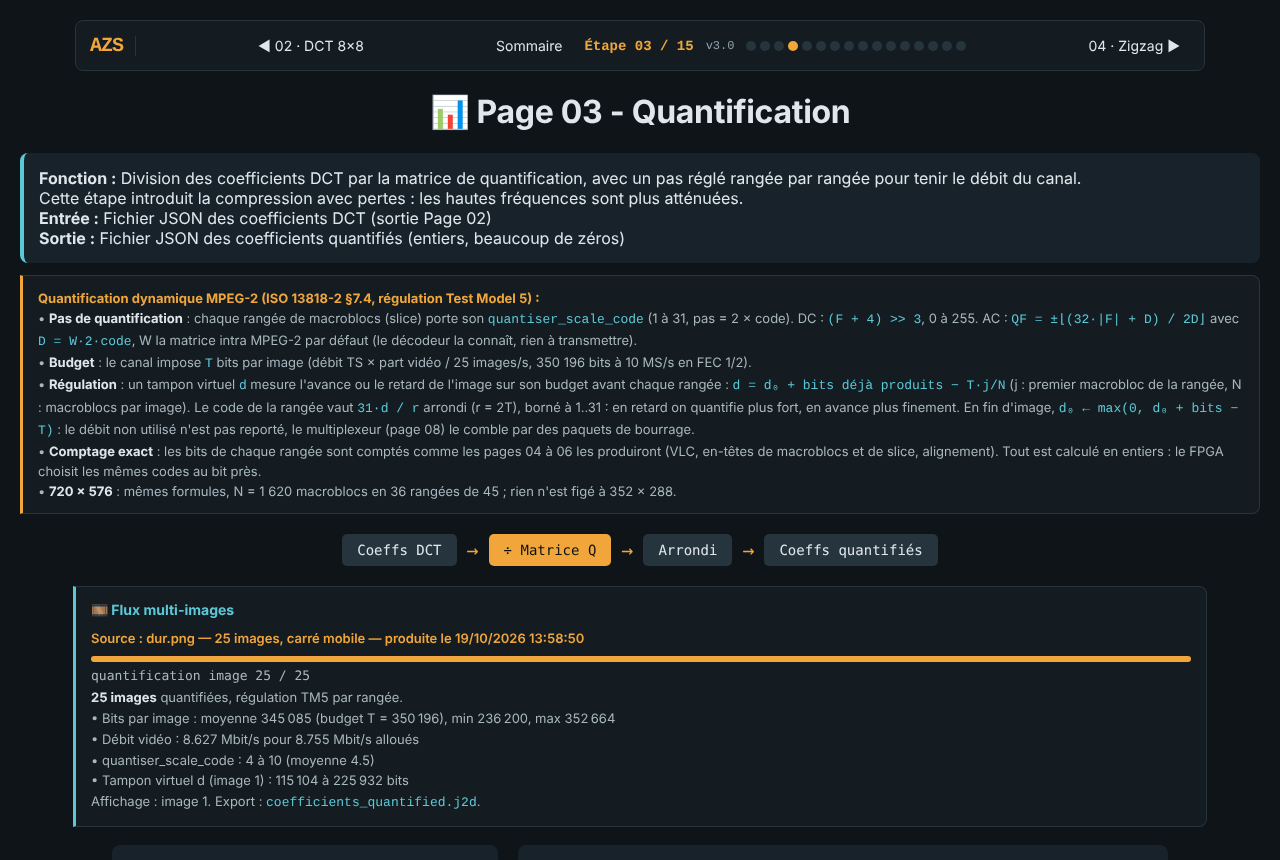
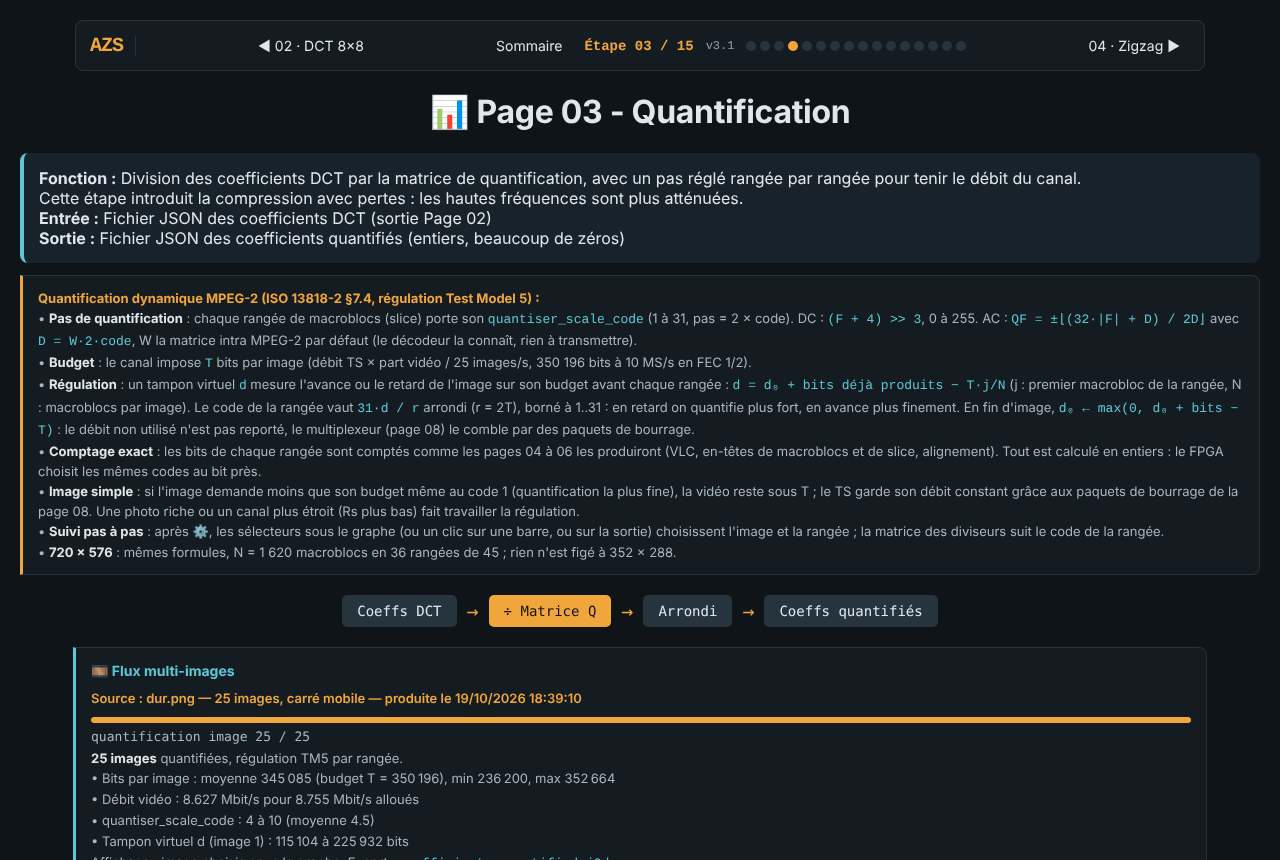
Étape 03 (3.1) : suivi pas à pas de la régulation TM5
Change :
- sélecteurs image (◀ n / N ▶) et rangée (◀ s / 18 ▶), clic sur une barre du graphe ou sur la sortie ;
- graphe de chaque image : codes par rangée, tampon virtuel d, bits cumulés des slices et budget cumulé ⌊T·s/rangées⌋ (pointillé) ;
- rangée suivie surlignée sur le graphe et sur la sortie, détail de la rangée (B, cible, d, code, bits) ;
- matrice des diviseurs au code de la rangée choisie ; entrée, sortie et taux de zéros de l'image choisie ;
- note « image simple » (code 1, bourrage du multiplexeur) dans l'encadré et dans le bilan ;
- clic sur la sortie : coordonnées recalées sur la taille affichée.

Conservé : calculs, codes et exports ; .j2d identique octet pour octet (date exceptée), TS de la mire identique à fpga_test/mire_ts.bin.
README / LISEZMOI : ligne d'historique ; capture refaite (dur.png, 25 images, 1280 × 860).

diff --git a/page03-quantification.html b/page03-quantification.html
@@ -6,7 +6,7 @@
   Objet      : Page 03 - Quantification
   Auteur     : Eric PERRET
   Date       : 2026-01-17
-  Version    : 3.0
+  Version    : 3.1
   Plateforme : HTML / CSS / JavaScript, page autonome, aucune librairie
   Licence    : CC BY-NC 4.0
   Historique : 1.1  2026-10-18  barre de navigation précédente / sommaire /
@@ -28,6 +28,11 @@
                      canal affiché sur la page ; matrice intra par défaut, curseur
                      qualité et choix de matrice retirés ; dimensions non figées
                      (prêt pour 720 × 576)
+               3.1  2026-10-19  suivi pas à pas de la régulation : sélecteurs image et
+                     rangée, graphe de chaque image (codes, tampon d, bits cumulés
+                     et budget cumulé), rangée surlignée, matrice des diviseurs au
+                     code de la rangée choisie, note « image simple » ; calculs et
+                     exports inchangés
 ================================================================================
 -->
 <html lang="fr">
@@ -118,6 +123,12 @@
         input[type="file"] {
             display: none;
         }
+        .rc-nav { margin-top: 8px; font-family: ui-monospace,"SFMono-Regular",Menlo,Consolas,"Liberation Mono",monospace; font-size: 12px; color: #a9b7bf; }
+        .rc-nav .rc-sel { display: inline-block; margin: 0 6px; white-space: nowrap; }
+        .rc-nav button { padding: 3px 10px; margin: 2px; font-size: 13px; }
+        .rc-nav .rc-val { display: inline-block; min-width: 56px; color: #5cc8d6; }
+        .rc-nav .info { margin-top: 4px; font-family: inherit; color: #dfe7ec; }
+        canvas { max-width: 100%; height: auto; }
         .info {
             margin-top: 10px;
             font-size: 12px;
@@ -269,6 +280,8 @@
 • <b>Budget</b> : le canal impose <code>T</code> bits par image (débit TS × part vidéo / 25 images/s, 350 196 bits à 10 MS/s en FEC 1/2).<br>
 • <b>Régulation</b> : un tampon virtuel <code>d</code> mesure l'avance ou le retard de l'image sur son budget avant chaque rangée : <code>d = d₀ + bits déjà produits − T·j/N</code> (j : premier macrobloc de la rangée, N : macroblocs par image). Le code de la rangée vaut <code>31·d / r</code> arrondi (r = 2T), borné à 1..31 : en retard on quantifie plus fort, en avance plus finement. En fin d'image, <code>d₀ ← max(0, d₀ + bits − T)</code> : le débit non utilisé n'est pas reporté, le multiplexeur (page 08) le comble par des paquets de bourrage.<br>
 • <b>Comptage exact</b> : les bits de chaque rangée sont comptés comme les pages 04 à 06 les produiront (VLC, en-têtes de macroblocs et de slice, alignement). Tout est calculé en entiers : le FPGA choisit les mêmes codes au bit près.<br>
+• <b>Image simple</b> : si l'image demande moins que son budget même au code 1 (quantification la plus fine), la vidéo reste sous T ; le TS garde son débit constant grâce aux paquets de bourrage de la page 08. Une photo riche ou un canal plus étroit (Rs plus bas) fait travailler la régulation.<br>
+• <b>Suivi pas à pas</b> : après ⚙, les sélecteurs sous le graphe (ou un clic sur une barre, ou sur la sortie) choisissent l'image et la rangée ; la matrice des diviseurs suit le code de la rangée.<br>
 • <b>720 × 576</b> : mêmes formules, N = 1 620 macroblocs en 36 rangées de 45 ; rien n'est figé à 352 × 288.</div>
     
     <div class="pipeline">
@@ -299,6 +312,11 @@
         <div class="canvas-box">
             <h3>2. TRAITEMENT - Régulation de débit</h3>
             <canvas id="canvasProcess" width="352" height="288"></canvas>
+            <div class="rc-nav" id="rcNav" style="display:none">
+                <span class="rc-sel">Image <button id="rcImgM" onclick="rcVoir(rcVue.f - 1, rcVue.s)" title="image précédente">◀</button><span class="rc-val" id="rcImgN">1 / 1</span><button id="rcImgP" onclick="rcVoir(rcVue.f + 1, rcVue.s)" title="image suivante">▶</button></span>
+                <span class="rc-sel">Rangée <button id="rcRangM" onclick="rcVoir(rcVue.f, rcVue.s - 1)" title="rangée précédente">◀</button><span class="rc-val" id="rcRangN">1 / 18</span><button id="rcRangP" onclick="rcVoir(rcVue.f, rcVue.s + 1)" title="rangée suivante">▶</button></span>
+                <div class="info" id="rcRang"></div>
+            </div>
             <div class="controls">
 <button id="btnQuantize" onclick="quantize()" disabled>⚙ Quantifier</button>
             </div>
@@ -335,7 +353,7 @@
     
     <!-- Affichage de la matrice Q -->
     <div style="text-align: center; margin-top: 20px;">
-        <h3 style="color: #00d4ff;">Matrice de Quantification (8×8)</h3>
+        <h3 style="color: #00d4ff;">Matrice de Quantification (8×8)<span id="matRang" style="color:#f0a63a;font-weight:normal"></span></h3>
         <div id="matrixDisplay" class="matrix-display"></div>
         <div id="blockComparison" class="stats" style="display:none; max-width: 800px; margin: 20px auto;"></div>
     </div>
@@ -874,8 +892,8 @@ var CANAL = {
             if (!quantized) return;
             
             const rect = this.getBoundingClientRect();
-            const x = Math.floor(e.clientX - rect.left);
-            const y = Math.floor(e.clientY - rect.top);
+            const x = Math.floor((e.clientX - rect.left) * this.width / rect.width);
+            const y = Math.floor((e.clientY - rect.top) * this.height / rect.height);
             
             const blockX = Math.floor(x / 8);
             const blockY = Math.floor(y / 8);
@@ -887,10 +905,11 @@ var CANAL = {
             const blockIndex = localBlockY * 2 + localBlockX;
             
             if (mbIndex < quantizedMacroblocs.length) {
+                if (rcTraces) { rcVoir(rcVue.f, mbY); }
                 displayBlockComparison(mbIndex, blockIndex);
                 
                 // Highlight
-                displayQuantizedOutput();
+                if (rcTraces) { rcSortie(); } else { displayQuantizedOutput(); }
                 const ctx = this.getContext('2d');
                 ctx.strokeStyle = '#ff0';
                 ctx.lineWidth = 2;
@@ -1097,7 +1116,8 @@ var CANAL = {
         })();
 
         let multi = null;                 // {meta, t} du fichier .j2d chargé (flux)
-        let rcQ = null, rcCodes = null, rcBitsImg = null, rcInfo = null, rcTrace = null;
+        let rcQ = null, rcCodes = null, rcBitsImg = null, rcInfo = null, rcTraces = null;
+        let rcVue = { f: 0, s: 0, init: false };   // image et rangée suivies
         let rcCols = MB_COLS, rcRows = MB_ROWS;
         let codeAffiche = 10;             // code montré par la matrice des diviseurs
 
@@ -1183,43 +1203,130 @@ var CANAL = {
         }
         function majInfoQS() {
             const el = document.getElementById('qsInfo');
-            if (el) { el.textContent = 'Matrice ci-dessous : diviseurs pour quantiser_scale_code = ' + codeAffiche + ' (quantiser_scale = ' + (2 * codeAffiche) + ')'; }
+            if (el) { el.textContent = 'Matrice ci-dessous : diviseurs pour quantiser_scale_code = ' + codeAffiche + ' (quantiser_scale = ' + (2 * codeAffiche) + ')' + (rcTraces ? ', rangée ' + (rcVue.s + 1) + ' de l\'image ' + (rcVue.f + 1) : ''); }
         }
         function updateMatrix() { currentMatrix = MATRICES.mpeg2_intra; displayMatrixVisualization(); displayMatrixOnCanvas(); }
 
-        /* rcCourbe — rangées de l'image 1 : barres = quantiser_scale_code, trait =
-           tampon virtuel d, pointillé = budget de la rangée */
-        function rcCourbe(trace, P) {
-            const ctx = document.getElementById('canvasProcess').getContext('2d');
+        /* rcCourbe — E : image f (rcTraces, rcInfo, rcVue) → T : panneau haut :
+           barres = quantiser_scale_code de chaque rangée, trait = tampon virtuel d ;
+           panneau bas : bits cumulés B des slices et budget cumulé ⌊T·(s+1)/rangées⌋
+           → S : graphe, rangée suivie surlignée */
+        const RC_X0 = 34;
+        function rcCourbe(f) {
+            const P = rcInfo, trace = rcTraces[f], ctx = document.getElementById('canvasProcess').getContext('2d');
+            const n = trace.length, x0 = RC_X0, x1 = WIDTH - 10, w = (x1 - x0) / n, sel = rcVue.s;
+            const a0 = 28, a1 = 138, b0 = 156, b1 = 234;
+            ctx.setLineDash([]); ctx.lineWidth = 1;
             ctx.fillStyle = '#0e1418'; ctx.fillRect(0, 0, WIDTH, HEIGHT);
-            const n = trace.length, x0 = 34, x1 = WIDTH - 10, y0 = 30, y1 = HEIGHT - 50, w = (x1 - x0) / n;
-            ctx.font = 'bold 13px Arial'; ctx.fillStyle = '#5cc8d6'; ctx.textAlign = 'center';
-            ctx.fillText('Régulation TM5 — image 1, ' + n + ' rangées', WIDTH / 2, 18);
-            ctx.strokeStyle = '#26343e'; ctx.strokeRect(x0, y0, x1 - x0, y1 - y0);
+            ctx.font = 'bold 13px Arial'; ctx.fillStyle = '#5cc8d6'; ctx.textAlign = 'center'; ctx.textBaseline = 'alphabetic';
+            ctx.fillText('Régulation TM5 — image ' + (f + 1) + ' / ' + rcTraces.length + ', ' + n + ' rangées', WIDTH / 2, 18);
+            // rangée suivie : bande verticale sur les deux panneaux
+            ctx.fillStyle = 'rgba(240,166,58,0.12)';
+            ctx.fillRect(x0 + sel * w, a0, w, a1 - a0); ctx.fillRect(x0 + sel * w, b0, w, b1 - b0);
+            ctx.strokeStyle = '#26343e'; ctx.strokeRect(x0, a0, x1 - x0, a1 - a0); ctx.strokeRect(x0, b0, x1 - x0, b1 - b0);
             // codes (échelle 0..31)
-            for (let s = 0; s < n; s++) {
-                const h = (y1 - y0) * trace[s].code / 31;
-                ctx.fillStyle = 'rgba(240,166,58,0.75)';
-                ctx.fillRect(x0 + s * w + 1, y1 - h, Math.max(1, w - 2), h);
+            for (let k = 0; k < n; k++) {
+                const h = (a1 - a0) * trace[k].code / 31;
+                ctx.fillStyle = k === sel ? '#f0a63a' : 'rgba(240,166,58,0.5)';
+                ctx.fillRect(x0 + k * w + 1, a1 - h, Math.max(1, w - 2), h);
             }
             // tampon virtuel d (échelle 0..r)
             ctx.strokeStyle = '#5cc8d6'; ctx.lineWidth = 2; ctx.beginPath();
-            for (let s = 0; s < n; s++) {
-                const y = y1 - (y1 - y0) * Math.max(0, Math.min(1, trace[s].d / P.r));
-                const x = x0 + (s + 0.5) * w;
-                if (s) { ctx.lineTo(x, y); } else { ctx.moveTo(x, y); }
+            for (let k = 0; k < n; k++) {
+                const y = a1 - (a1 - a0) * Math.max(0, Math.min(1, trace[k].d / P.r)), x = x0 + (k + 0.5) * w;
+                if (k) { ctx.lineTo(x, y); } else { ctx.moveTo(x, y); }
             }
+            ctx.stroke();
+            // bits cumulés et budget cumulé
+            const cum = []; let B = 0, max = P.T;
+            for (let k = 0; k < n; k++) { B += trace[k].bits; cum.push(B); max = Math.max(max, B); }
+            const yb = v => b1 - (b1 - b0) * v / max;
+            ctx.setLineDash([4, 3]); ctx.strokeStyle = '#dfe7ec'; ctx.lineWidth = 1.5; ctx.beginPath(); ctx.moveTo(x0, b1);
+            for (let k = 0; k < n; k++) { ctx.lineTo(x0 + (k + 1) * w, yb(Math.floor(P.T * (k + 1) / n))); }
+            ctx.stroke(); ctx.setLineDash([]);
+            ctx.strokeStyle = '#3fb950'; ctx.lineWidth = 2; ctx.beginPath(); ctx.moveTo(x0, b1);
+            for (let k = 0; k < n; k++) { ctx.lineTo(x0 + (k + 1) * w, yb(cum[k])); }
             ctx.stroke(); ctx.lineWidth = 1;
+            // axes et légende
             ctx.font = '10px Arial'; ctx.textAlign = 'right'; ctx.fillStyle = '#8fa1ad';
-            ctx.fillText('31', x0 - 4, y0 + 8); ctx.fillText('0', x0 - 4, y1);
+            ctx.fillText('31', x0 - 4, a0 + 8); ctx.fillText('0', x0 - 4, a1);
+            ctx.fillText(Math.round(max / 1000) + 'k', x0 - 2, b0 + 8); ctx.fillText('0', x0 - 4, b1);
             ctx.textAlign = 'left';
-            ctx.fillStyle = '#f0a63a'; ctx.fillText('■ quantiser_scale_code par rangée', x0, y1 + 18);
-            ctx.fillStyle = '#5cc8d6'; ctx.fillText('— tampon virtuel d (0 à r = 2T)', x0, y1 + 32);
+            ctx.fillStyle = '#f0a63a'; ctx.fillText('■ code par rangée (0–31)', x0, 250);
+            ctx.fillStyle = '#5cc8d6'; ctx.fillText('— tampon d (0 à r = 2T)', x0 + 150, 250);
+            ctx.fillStyle = '#3fb950'; ctx.fillText('— bits cumulés B (slices)', x0, 264);
+            ctx.fillStyle = '#dfe7ec'; ctx.fillText('- - budget cumulé T·s/rangées', x0 + 150, 264);
+            ctx.fillStyle = '#8fa1ad'; ctx.fillText('clic sur une barre : choisir la rangée', x0, 280);
         }
+
+        /* rcSortie — E : rangée suivie → S : sortie quantifiée, rangée encadrée */
+        function rcSortie() {
+            displayQuantizedOutput();
+            const ctx = document.getElementById('canvasOutput').getContext('2d');
+            ctx.strokeStyle = '#f0a63a'; ctx.lineWidth = 2;
+            ctx.strokeRect(1, rcVue.s * 16 + 1, WIDTH - 2, 14);
+            ctx.lineWidth = 1;
+        }
+
+        /* rcZeros — E : image f → S : taux de zéros des coefficients AC */
+        function rcZeros(f) {
+            const par = rcCols * rcRows * 384, o = f * par;
+            let z = 0;
+            for (let b = 0; b < rcCols * rcRows * 6; b++) { for (let i = 1; i < 64; i++) { if (rcQ[o + b * 64 + i] === 0) { z++; } } }
+            const zp = (100 * z / (rcCols * rcRows * 6 * 63)).toFixed(1);
+            document.getElementById('zeroStats').style.display = 'block';
+            document.getElementById('zeroFill').style.width = zp + '%';
+            document.getElementById('zeroPercent').textContent = zp + '% (image ' + (f + 1) + ')';
+        }
+
+        /* rcVoir — E : image f, rangée s → T : bornage, macroblocs de l'image,
+           code de la rangée → S : entrée, sortie, graphe, matrice et détail de la
+           rangée mis à jour */
+        function rcVoir(f, s) {
+            if (!rcTraces) { return; }
+            const N = rcTraces.length;
+            f = Math.max(0, Math.min(N - 1, f)); s = Math.max(0, Math.min(rcRows - 1, s));
+            const neuve = !rcVue.init || f !== rcVue.f;
+            rcVue = { f: f, s: s, init: true };
+            if (neuve) {
+                if (multi) {
+                    dctMacroblocs = MB384.depaqueter(multi.t.coef, f);
+                    const st = document.getElementById('statsInput');
+                    st.style.display = 'block';
+                    st.innerHTML = '<strong>Flux chargé :</strong><br>• Images : ' + N + ' (' + rcCols + ' × ' + rcRows + ' macroblocs)<br>• Affichage : image ' + (f + 1);
+                }
+                quantizedMacroblocs = MB384.depaqueter(rcQ, f);
+                displayDCTInput(); rcZeros(f);
+                document.getElementById('blockComparison').style.display = 'none';
+            }
+            const t = rcTraces[f], code = rcCodes[f * rcRows + s];
+            let B = 0; for (let k = 0; k < s; k++) { B += t[k].bits; }
+            codeAffiche = code;
+            displayMatrixVisualization(); majInfoQS(); rcCourbe(f); rcSortie();
+            const fr = v => v.toLocaleString('fr-FR');
+            document.getElementById('rcImgN').textContent = (f + 1) + ' / ' + N;
+            document.getElementById('rcRangN').textContent = (s + 1) + ' / ' + rcRows;
+            document.getElementById('rcImgM').disabled = f === 0;
+            document.getElementById('rcImgP').disabled = f === N - 1;
+            document.getElementById('rcRangM').disabled = s === 0;
+            document.getElementById('rcRangP').disabled = s === rcRows - 1;
+            document.getElementById('rcRang').innerHTML = 'avant la rangée : B = ' + fr(B) + ' bits, cible ⌊T·' + s + '/' + rcRows + '⌋ = ' + fr(Math.floor(rcInfo.T * s / rcRows)) +
+                '<br>d = ' + fr(t[s].d) + ' → code <b style="color:#f0a63a">' + code + '</b> (pas ' + (2 * code) + ') → slice de ' + fr(t[s].bits) + ' bits';
+            document.getElementById('matRang').textContent = ' — rangée ' + (s + 1) + ', image ' + (f + 1) + ', code ' + code;
+        }
+        document.getElementById('canvasProcess').addEventListener('click', function (e) {
+            if (!rcTraces) { return; }
+            const rect = this.getBoundingClientRect();
+            const x = (e.clientX - rect.left) * this.width / rect.width;
+            const w = (WIDTH - 10 - RC_X0) / rcRows, k = Math.floor((x - RC_X0) / w);
+            if (k >= 0 && k < rcRows) { rcVoir(rcVue.f, k); }
+        });
 
         const _loadJSON1 = loadJSON;
         loadJSON = function (files) {
-            rcQ = null;
+            rcQ = null; rcTraces = null; rcVue = { f: 0, s: 0, init: false };
+            document.getElementById('rcNav').style.display = 'none';
+            document.getElementById('matRang').textContent = '';
             if (!J2D.estJ2D(files)) { multi = null; MULTI_UI.cacher(); _loadJSON1(files); rcCols = MB_COLS; rcRows = MB_ROWS; rcMajInfo(); return; }
             J2D.charger(files[0], ['J2D_DCT_V2'], function (lu) {
                 multi = lu;
@@ -1249,32 +1356,24 @@ var CANAL = {
             else { N = 1; src = new Float32Array(MB384.PAR_IMAGE); MB384.paqueter(dctMacroblocs, src, 0); }
             const cols = rcCols, rows = rcRows, par = cols * rows * 384;
             const out = new Int16Array(N * par), codes = new Uint8Array(N * rows), bitsImg = new Uint32Array(N);
-            const etat = { d0: P.d0 }, trace = [];
+            const etat = { d0: P.d0 }, traces = [];
             let dMin = Infinity, dMax = -Infinity;
             document.getElementById('btnQuantize').disabled = true;
             J2D.boucle(N, function (f) {
-                const t = f === 0 ? trace : null;
-                bitsImg[f] = rcImage(src, out, f, cols, rows, etat, P, codes, t);
+                traces[f] = [];
+                bitsImg[f] = rcImage(src, out, f, cols, rows, etat, P, codes, traces[f]);
             }, function (i, n) { if (multi) { MULTI_UI.progres(i, n, 'quantification image ' + i + ' / ' + n); } }, function () {
-                rcQ = out; rcCodes = codes; rcBitsImg = bitsImg; rcTrace = trace;
+                rcQ = out; rcCodes = codes; rcBitsImg = bitsImg;
                 let s = 0, mn = Infinity, mx = 0, cmin = 31, cmax = 1, csum = 0;
                 for (let f = 0; f < N; f++) { s += bitsImg[f]; mn = Math.min(mn, bitsImg[f]); mx = Math.max(mx, bitsImg[f]); }
                 for (let i = 0; i < codes.length; i++) { cmin = Math.min(cmin, codes[i]); cmax = Math.max(cmax, codes[i]); csum += codes[i]; }
-                for (const t of trace) { dMin = Math.min(dMin, t.d); dMax = Math.max(dMax, t.d); }
+                for (const t of traces[0]) { dMin = Math.min(dMin, t.d); dMax = Math.max(dMax, t.d); }
                 rcInfo = Object.assign({}, P, { bitsMoyen: s / N, bitsMin: mn, bitsMax: mx, debitMesure: s / N * P.fps,
                     codeMin: cmin, codeMax: cmax, codeMoyen: csum / codes.length });
-                let c0 = 0; for (let k = 0; k < rows; k++) { c0 += codes[k]; }
-                codeAffiche = Math.round(c0 / rows);
-                quantizedMacroblocs = MB384.depaqueter(out, 0);
                 quantized = true;
-                displayQuantizedOutput(); displayMatrixVisualization(); majInfoQS(); rcCourbe(trace, P);
-                // taux de zéros (image 1)
-                let z = 0;
-                for (let b = 0; b < cols * rows * 6; b++) { for (let i = 1; i < 64; i++) { if (out[b * 64 + i] === 0) { z++; } } }
-                const zp = (100 * z / (cols * rows * 6 * 63)).toFixed(1);
-                document.getElementById('zeroStats').style.display = 'block';
-                document.getElementById('zeroFill').style.width = zp + '%';
-                document.getElementById('zeroPercent').textContent = zp + '%';
+                rcTraces = traces; rcVue = { f: 0, s: 0, init: false };
+                document.getElementById('rcNav').style.display = 'block';
+                rcVoir(0, 0);
                 document.getElementById('btnExport').disabled = false;
                 document.getElementById('btnDequant').disabled = false;
                 document.getElementById('btnQuantize').disabled = false;
@@ -1283,16 +1382,19 @@ var CANAL = {
                     '• Débit vidéo : ' + (s / N * P.fps / 1e6).toFixed(3) + ' Mbit/s pour ' + (P.R_video / 1e6).toFixed(3) + ' Mbit/s alloués<br>' +
                     '• quantiser_scale_code : ' + cmin + ' à ' + cmax + ' (moyenne ' + (csum / codes.length).toFixed(1) + ')<br>' +
                     '• Tampon virtuel d (image 1) : ' + dMin.toLocaleString('fr-FR') + ' à ' + dMax.toLocaleString('fr-FR') + ' bits';
+                let c1 = 0; for (let i = 0; i < codes.length; i++) { if (codes[i] === 1) { c1++; } }
+                const txtSimple = (s / N < 0.8 * P.T) ? '<br>• <b>Image simple</b> : la vidéo n\'emploie que ' + Math.round(100 * s / N / P.T) + ' % du budget, code 1 sur ' + c1 + ' rangées sur ' + codes.length +
+                    ' ; le multiplexeur (page 08) comble par du bourrage. Une photo riche ou un canal plus étroit (Rs plus bas) fait travailler la régulation.' : '';
                 const st = document.getElementById('rcStats');
-                st.style.display = 'block'; st.innerHTML = txt;
-                if (multi) { MULTI_UI.montrer(txt + '<br>Affichage : image 1. Export : <code>coefficients_quantified.j2d</code>.'); }
+                st.style.display = 'block'; st.innerHTML = txt + txtSimple;
+                if (multi) { MULTI_UI.montrer(txt + txtSimple + '<br>Affichage : image choisie sous le graphe. Export : <code>coefficients_quantified.j2d</code>.'); }
             });
         };
 
         /* paramsRangee — E : indice de macrobloc → S : paramètres de quantification
            de sa rangée (prévisualisation) */
         function paramsRangee(index) {
-            const c = rcCodes ? rcCodes[Math.floor(index / rcCols)] : codeAffiche;
+            const c = rcCodes ? rcCodes[rcVue.f * rcRows + Math.floor(index / rcCols)] : codeAffiche;
             return { quantiser_scale_code: c, quantiser_scale: 2 * c, W: W_INTRA };
         }
 

diff --git a/LISEZMOI.md b/LISEZMOI.md
@@ -75,6 +75,7 @@ Pour éprouver l'algorithme avant le portage sur FPGA, toute la chaîne traite a
 | 2026-10-19 | Dossier [vhdl/](vhdl/LISEZMOI.md) : portage FPGA en VHDL-2008, étapes 02 à 14 reproduites au bit près (19 bancs GHDL) ; page 08 en 2.4 : instants du multiplexage en entiers exacts |
 | 2026-10-19 | Pages 01, 12, 14 (2.2) : pré-réglage du projet — 25 images (1 s de flux), FEC 1/2, α = 0,35 ; la chaîne se déroule sans toucher aux paramètres |
 | 2026-10-19 | Étape 02 (3.0) : DCT entière seule (case « virgule fixe » retirée). Étape 03 (3.0) : régulation TM5 seule, en entiers, budget tiré du canal (Rs, FEC, part vidéo), un code par rangée, prête pour le 720 × 576. Étape 06 (2.4) : quantiser_scale_code propre à chaque slice |
+| 2026-10-19 | Étape 03 (3.1) : suivi pas à pas de la régulation — sélecteurs image et rangée, graphe de chaque image (codes, tampon virtuel d, bits cumulés face au budget cumulé), rangée surlignée, matrice des diviseurs au code de cette rangée, note « image simple » ; calculs et exports inchangés |
 
 ## Licence
 

diff --git a/README.md b/README.md
@@ -75,6 +75,7 @@ To harden the algorithm before the FPGA port, the whole chain also processes a s
 | 2026-10-19 | [vhdl/](vhdl/README.md) folder: FPGA port in VHDL-2008, steps 02 to 14 reproduced bit for bit (19 GHDL testbenches); page 08 at 2.4: multiplexer timing in exact integers |
 | 2026-10-19 | Pages 01, 12, 14 (2.2): project presets — 25 pictures (1 s of stream), FEC 1/2, α = 0.35; the chain runs without touching any setting |
 | 2026-10-19 | Step 02 (3.0): integer DCT only (fixed-point checkbox removed). Step 03 (3.0): TM5 rate control only, in integers, budget from the channel (Rs, FEC, video share), one code per row, ready for 720 × 576. Step 06 (2.4): per-slice quantiser_scale_code |
+| 2026-10-19 | Step 03 (3.1): step-by-step view of the rate control — picture and row selectors, graph for every picture (scale codes, virtual buffer d, cumulated bits against cumulated budget), selected row highlighted, divisor matrix at the code of that row, « simple picture » note; computation and exports unchanged |
 
 ## License
 
